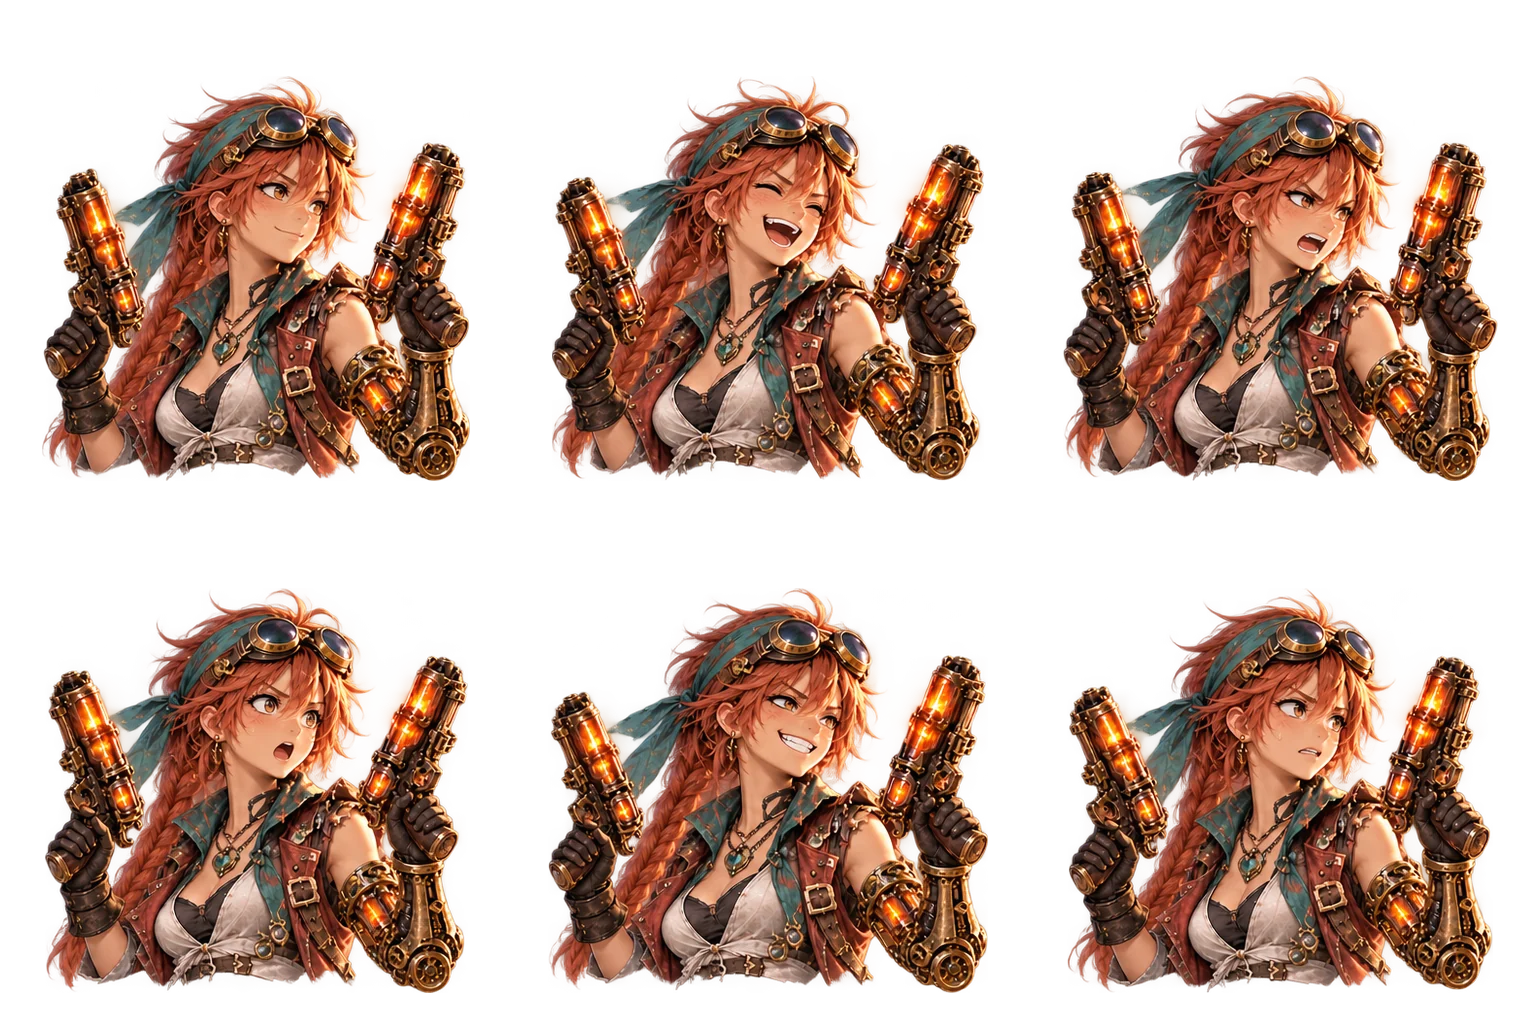
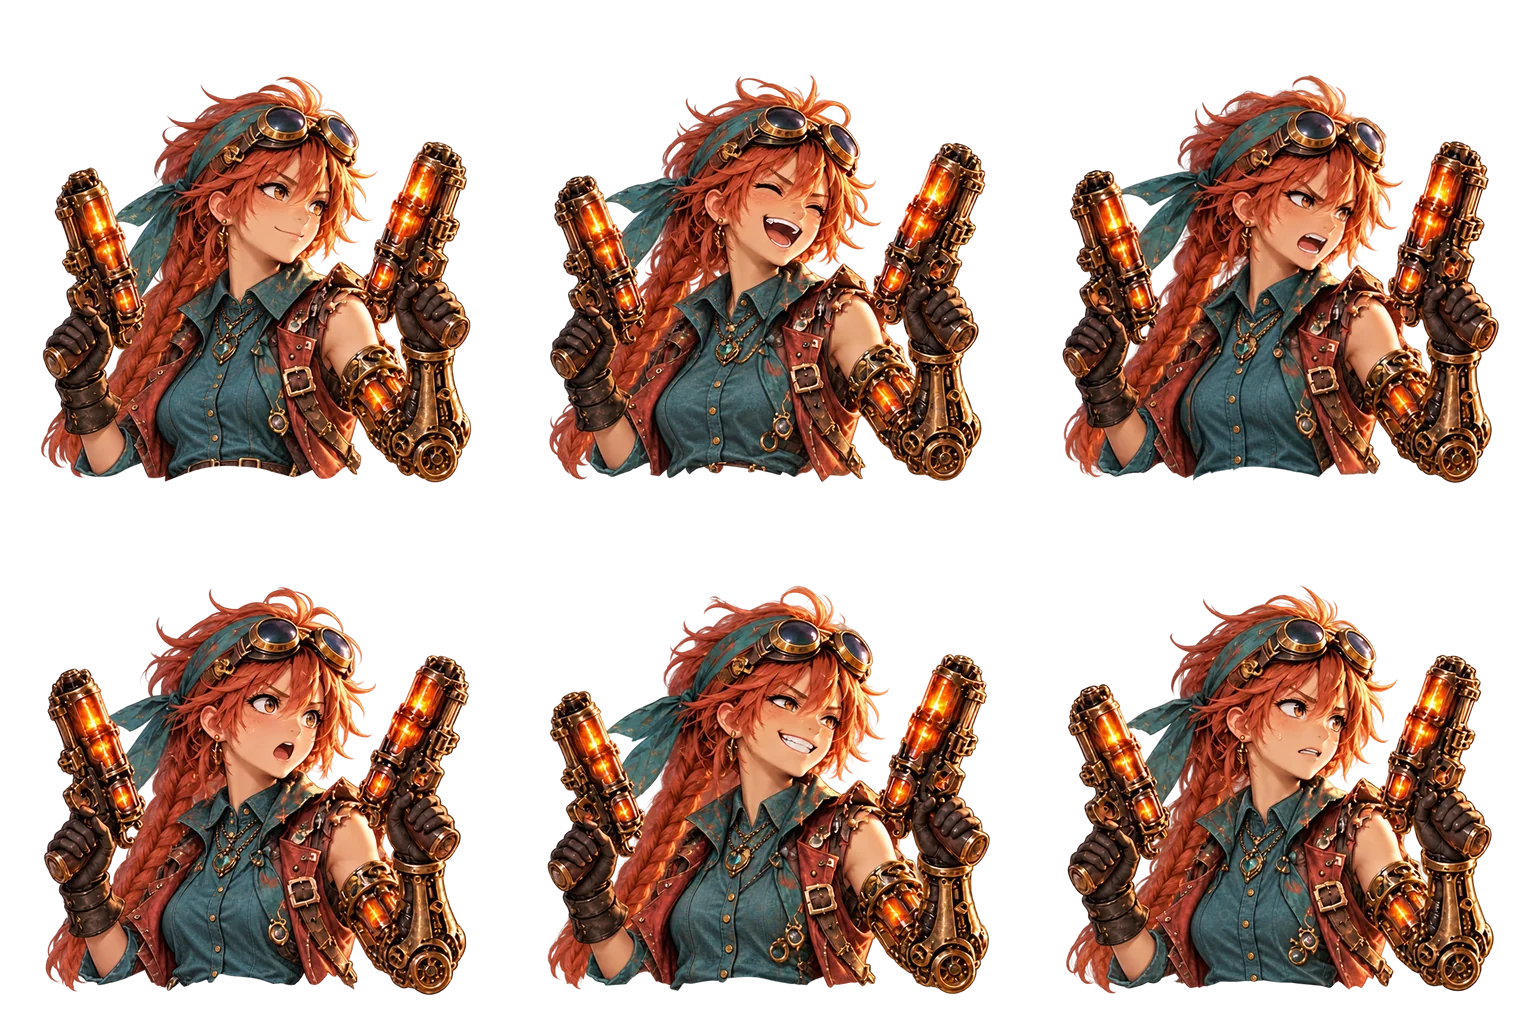
Wave 10, Section B: Wren's four sheets in the covered look
battle, portraits, walk and field edited one cell at a time (each cell
cropped, edited, pasted back in place), all attempt 1. Canvases and cells
unchanged, corners and cell edges transparent, feet within 2 px of the old
cells. Battle cells 2 and 5 and field cell 2 came back drawn larger, so they
were scaled back to the old figure height before pasting. The walk's upper
body moves frame to frame as before (within 2 px), so it stays aligned.
Nothing flagged.

diff --git a/art/waves/wave-10-wren-dressed.md b/art/waves/wave-10-wren-dressed.md
@@ -48,10 +48,10 @@ Each one is an edit of the sheet at the same path, with the same canvas, cells, 
 
 | ☐ | Sheet | Layout |
 |---|---|---|
-| ☐ | `characters/ally_gunner/battle.webp` | 3 × 2 cells of 512 px, facing left: idle, attack, cast, hurt, ko, victory |
-| ☐ | `characters/ally_gunner/portraits.webp` | 3 × 2 cells of 512 px: neutral, laughing, angry, shocked, smug, worried. The shirt's collar shows here most, so keep it buttoned to the collarbone in all six. |
-| ☐ | `characters/ally_gunner/walk.webp` | 4 × 2 cells of 384 × 512, eight frames, facing right. The legs show the trousers best here. |
-| ☐ | `characters/ally_gunner/field.webp` | 2 × 2 cells of 512 px, facing right: angry, shout, talk, pleased |
+| ☑ | `characters/ally_gunner/battle.webp` | 3 × 2 cells of 512 px, facing left: idle, attack, cast, hurt, ko, victory |
+| ☑ | `characters/ally_gunner/portraits.webp` | 3 × 2 cells of 512 px: neutral, laughing, angry, shocked, smug, worried. The shirt's collar shows here most, so keep it buttoned to the collarbone in all six. |
+| ☑ | `characters/ally_gunner/walk.webp` | 4 × 2 cells of 384 × 512, eight frames, facing right. The legs show the trousers best here. |
+| ☑ | `characters/ally_gunner/field.webp` | 2 × 2 cells of 512 px, facing right: angry, shout, talk, pleased |
 
 **The walk:** play the eight frames in a row to check them. If her upper body now jumps between frames, remove `"aligned"` from the walk entry and run `python3 tools/art/align_walks.py` again.
 
